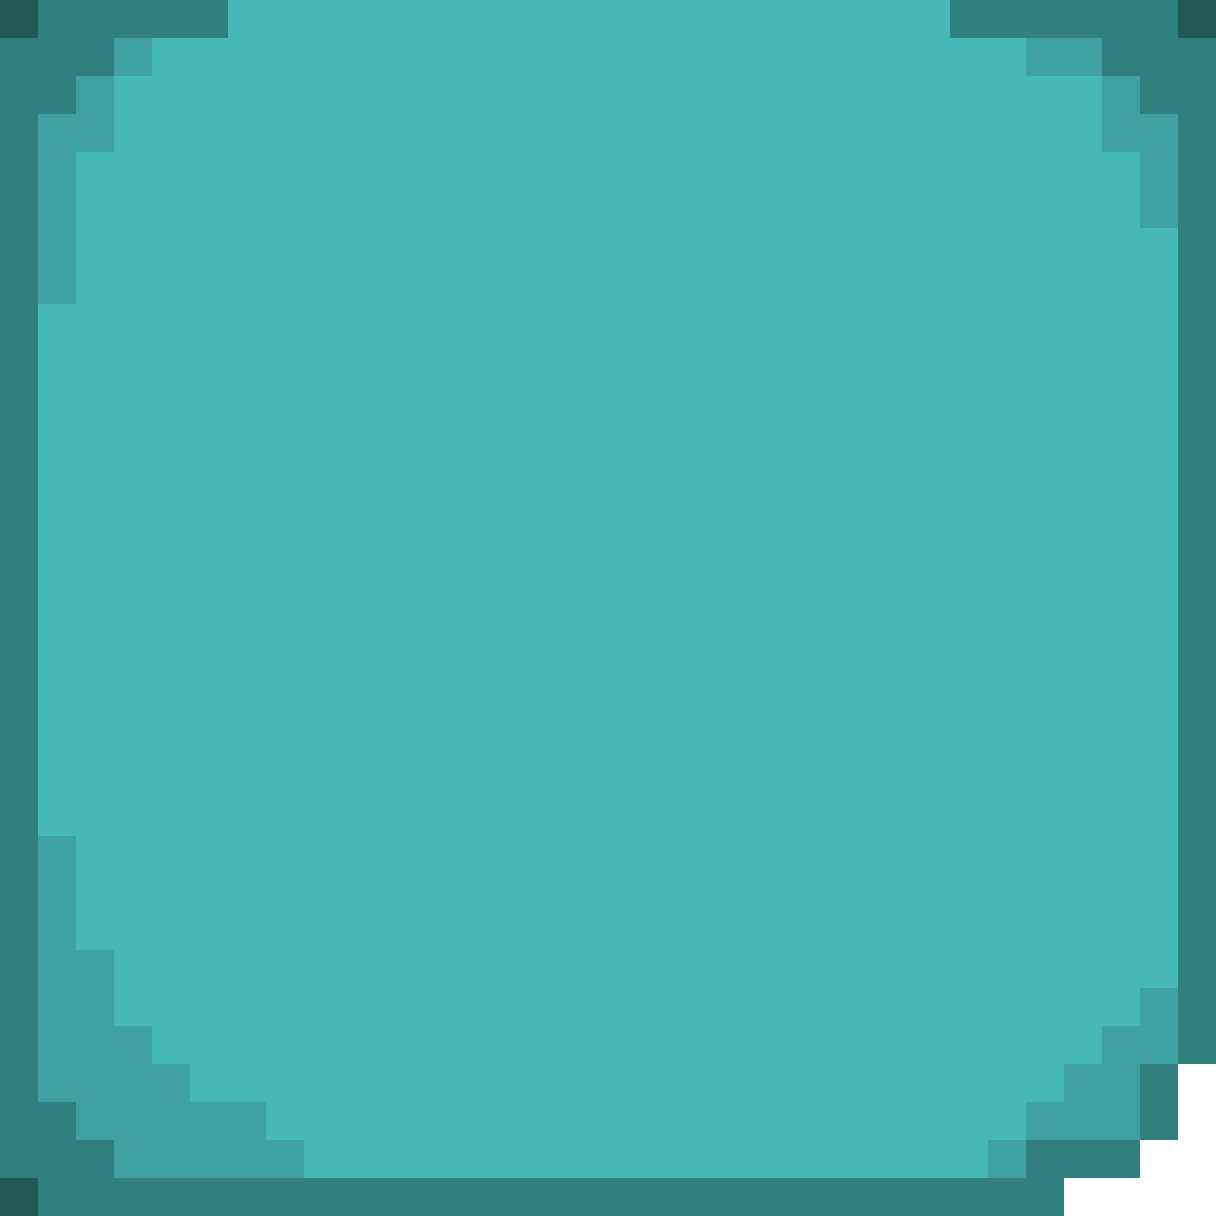
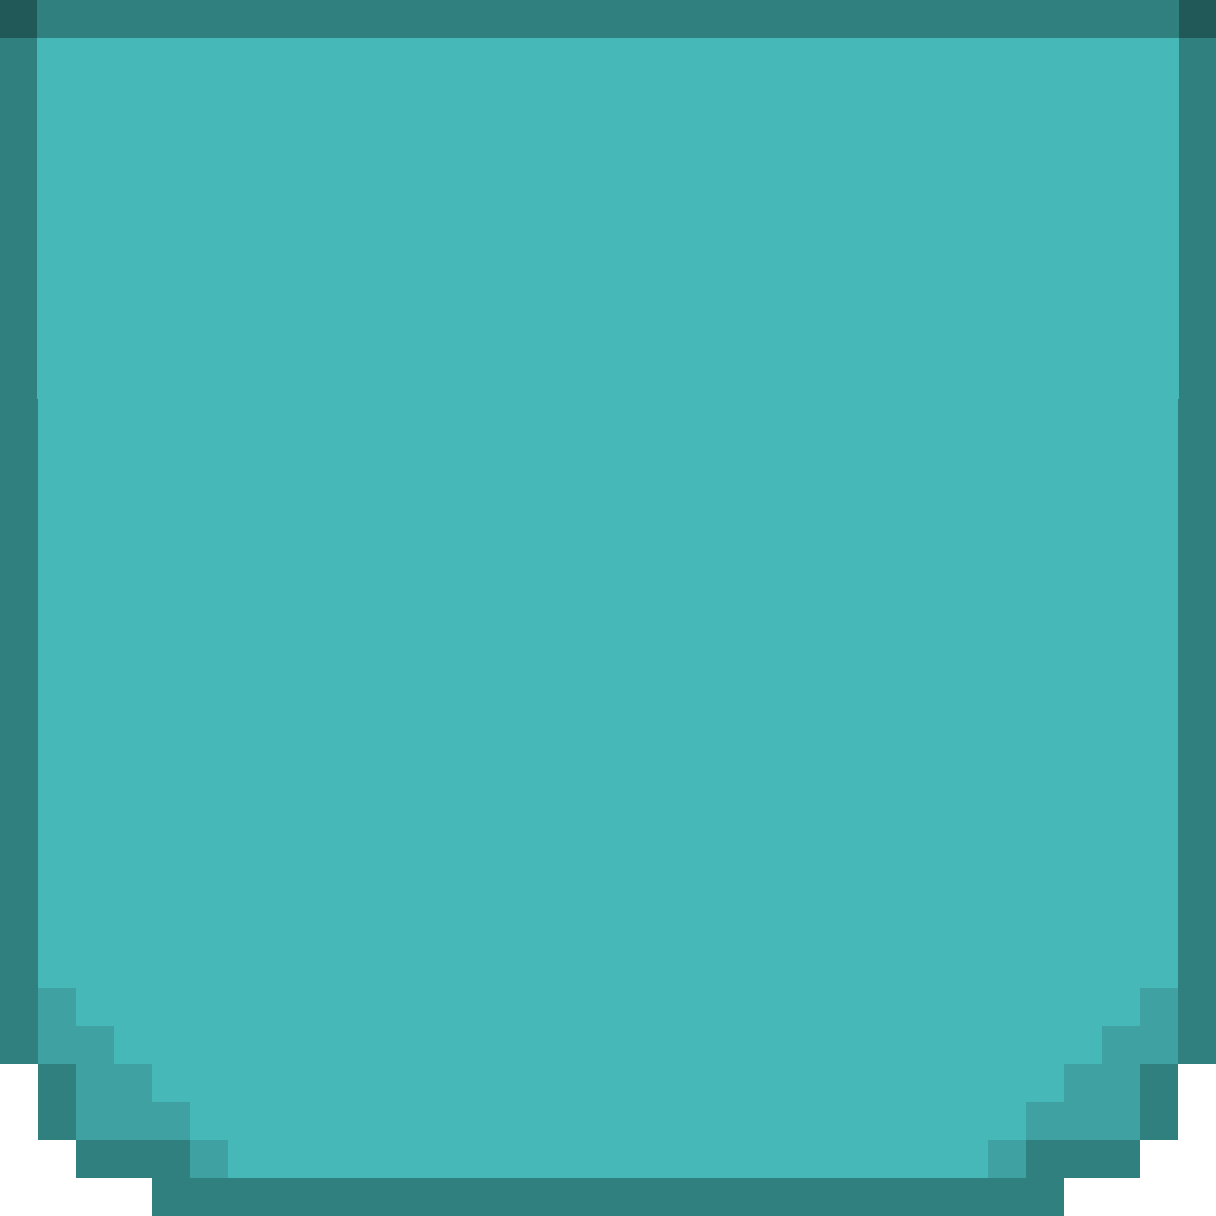
Included textures onto objects, changes some textures to improve tiling

diff --git a/core/src/com/mygdx/game/CreateGameWorld.java b/core/src/com/mygdx/game/CreateGameWorld.java
@@ -28,7 +28,7 @@ public class CreateGameWorld
     GameObject CheeseCrate, LettuceCrate, BunsCrate, OnionCrate, TomatoCrate, MeatCrate;
     GameObject Stove1;
     GameObject Stove2;
-    GameObject CombinationCounter;
+    List<GameObject> CombinationCounters = new LinkedList<>();
     GameObject KitchenSouthWall;
 
     public Vector3 SpawnPointChef1 = new Vector3 (0,0,0);
@@ -51,7 +51,7 @@ public class CreateGameWorld
     public List<Vector3> CustomerWaitingLocations;
 
 
-    Vector3 TableGroupPosition = new Vector3(70,0,100);
+    Vector3 TableGroupPosition = new Vector3(70,0,110);
 
     BTexture FloorTextureD;
     BTexture FloorTextureK;
@@ -64,28 +64,31 @@ public class CreateGameWorld
     BTexture TableTexture;
     BTexture BossTableTexture;
     BTexture CombinationCounterTexture;
+    BTexture CombinationCounterTextureEnd;
+    BTexture CombinationCounterTextureEndDown;
 
-    public float TableRadius = 49;
+    public float TableRadius = 75;
    public List<GameObject> InteractableObjects = new LinkedList<>();
 
 
     public void Instantiate(GridPartition partition){
-        FloorTextureK = new BTexture("wood.png",350,350);
+        FloorTextureK = new BTexture("pictures/KitchenTiles.png",null,null,4);
         FloorTextureK.setWrap(Texture.TextureWrap.Repeat,Texture.TextureWrap.Repeat);
 
-        FloorTextureD = new BTexture("wood.png",330,350);
+        FloorTextureD = new BTexture("pictures/Carpet.png",null,null,4);
         FloorTextureD.setWrap(Texture.TextureWrap.Repeat,Texture.TextureWrap.Repeat);
 
         BlackTexture = new BTexture("black.png",380,350);
         BlackTexture.setWrap(Texture.TextureWrap.Repeat,Texture.TextureWrap.Repeat);
 
-        ServingCounterTexture = new BTexture("black.png",50,100);
+        ServingCounterTexture = new BTexture("pictures/Serving Counter.png",null, null, 1,3);
         ServingCounterTexture.setWrap(Texture.TextureWrap.Repeat,Texture.TextureWrap.Repeat);
 
-        BossTableTexture = new BTexture("black.png",190,40);
-        BossTableTexture.setWrap(Texture.TextureWrap.Repeat,Texture.TextureWrap.Repeat);
 
-        TableTexture = new BTexture("table.png", (int) TableRadius, (int) TableRadius);
+        BossTableTexture = new BTexture("pictures/Boss table.png",null,null);
+        BossTableTexture.setWrap(Texture.TextureWrap.ClampToEdge,Texture.TextureWrap.ClampToEdge);
+
+        TableTexture = new BTexture("pictures/Round Table.png", null , null);
         TableTexture.setWrap(Texture.TextureWrap.ClampToEdge,Texture.TextureWrap.ClampToEdge);
 
         DoorTexture = new BTexture("door.png",49,49);
@@ -94,30 +97,34 @@ public class CreateGameWorld
         LightBeamTexture = new BTexture("lightBeam.png",101,112);
         LightBeamTexture.setWrap(Texture.TextureWrap.ClampToEdge);
 
-        StoveTexture = new BTexture("purple.png",50,50);
-        StoveTexture.setWrap(Texture.TextureWrap.Repeat);
+        StoveTexture = new BTexture("pictures/hob.png",null,null);
+        StoveTexture.setWrap(Texture.TextureWrap.ClampToEdge);
 
-        ChoppingBoardTexture  = new BTexture("cyan.png",50,50);
-        ChoppingBoardTexture.setWrap(Texture.TextureWrap.Repeat);
-
-
-
-        CombinationCounterTexture = new BTexture("black.png",75,150);
-        CombinationCounterTexture.setWrap(Texture.TextureWrap.Repeat,Texture.TextureWrap.Repeat);
+        ChoppingBoardTexture  = new BTexture("pictures/Chopping Board.png",null,null);
+        ChoppingBoardTexture.setWrap(Texture.TextureWrap.ClampToEdge);
 
 
-        KitchenFloor = new GameObject(new Rectangle(400,25,350,300), FloorTextureK);
+
+        CombinationCounterTexture = new BTexture("pictures/Counter.png",null,null);
+        CombinationCounterTexture.setWrap(Texture.TextureWrap.ClampToEdge);
+
+        CombinationCounterTextureEnd = new BTexture("pictures/Counter-end.png",null,null);
+        CombinationCounterTextureEnd.setWrap(Texture.TextureWrap.ClampToEdge);
+        CombinationCounterTextureEndDown = new BTexture("pictures/Counter-endDown.png",null,null);
+        CombinationCounterTextureEndDown.setWrap(Texture.TextureWrap.ClampToEdge);
+
+        KitchenFloor = new GameObject(new Rectangle(400,25,350,300), FloorTextureK,350,350);
         KitchenFloor.transform.position.x = 430;
         KitchenFloor.transform.position.z = 20;
         KitchenFloor.transform.position.y = -1;
 
-        DiningFloor = new GameObject(new Rectangle(50,25,330,300), FloorTextureD);
+        DiningFloor = new GameObject(new Rectangle(50,25,330,300), FloorTextureD,330,350);
         DiningFloor.transform.position.x = 50;
         DiningFloor.transform.position.z = 20;
         DiningFloor.transform.position.y = -1;
 
 
-        ServingCounter = new GameObject(new Rectangle(KitchenFloor.transform.position.x-50+col_redct,KitchenFloor.transform.position.z+100-col_redct,50-col_redct*2,100-col_redct*2), ServingCounterTexture);
+        ServingCounter = new GameObject(new Rectangle(KitchenFloor.transform.position.x-50+col_redct,KitchenFloor.transform.position.z+100-col_redct,50-col_redct*2,100-col_redct*2), ServingCounterTexture,50,100);
         ServingCounter.transform.position.x = KitchenFloor.transform.position.x-50;
         ServingCounter.transform.position.z = KitchenFloor.transform.position.z+100;
         ServingCounter.transform.position.y = 1;
@@ -132,17 +139,8 @@ public class CreateGameWorld
 
 
 
-        CombinationCounter = new GameObject(new Rectangle( 120+ KitchenFloor.transform.position.x ,105+KitchenFloor.transform.position.z, 75,150),CombinationCounterTexture);
-        CombinationCounter.transform.position.x =  120 + KitchenFloor.transform.position.x;
-        CombinationCounter.transform.position.z = 105 + KitchenFloor.transform.position.z;
-        CombinationCounter.transform.position.y = 1;
-        CombinationCounter.addStaticCollider(partition, occupationID.Station);
-        WSCounter CC = new WSCounter();
-        CombinationCounter.AppendScript(CC);
-        InteractableObjects.add(CombinationCounter);
 
-        WorkStations.add(CombinationCounter);
-
+        createCombinationCounters(partition);
 
         createMachines(partition);
 
@@ -166,10 +164,59 @@ public class CreateGameWorld
 
     }
 
+    void createCombinationCounters(GridPartition partition)
+    {
+
+        int middleSections = 3;
+        int segmentHeight =  150/(middleSections+2);
+        int segmentWidth = 50;
+
+        GameObject CombinationCounter;
+        for (int i = 1; i <= middleSections; i++)
+        {
+            CombinationCounter = new GameObject(new Rectangle( 120+ KitchenFloor.transform.position.x ,i*segmentHeight +KitchenFloor.transform.position.z, segmentWidth,segmentHeight),CombinationCounterTexture,segmentWidth,segmentHeight);
+            CombinationCounter.transform.position.x =  120 + KitchenFloor.transform.position.x;
+            CombinationCounter.transform.position.z =  i*segmentHeight + 105 + KitchenFloor.transform.position.z;
+            CombinationCounter.transform.position.y = 1;
+            CombinationCounter.addStaticCollider(partition, occupationID.Station);
+            WSCounter CC = new WSCounter();
+            CombinationCounter.AppendScript(CC);
+            InteractableObjects.add(CombinationCounter);
+            CombinationCounters.add(CombinationCounter);
+            WorkStations.add(CombinationCounter);
+
+        }
+
+
+        CombinationCounter = new GameObject(new Rectangle( 120+ KitchenFloor.transform.position.x ,105+KitchenFloor.transform.position.z, 75,150),CombinationCounterTextureEnd,segmentWidth,segmentHeight);
+        CombinationCounter.transform.position.x =  120 + KitchenFloor.transform.position.x;
+        CombinationCounter.transform.position.z = 105 + KitchenFloor.transform.position.z;
+        CombinationCounter.transform.position.y = 1;
+        CombinationCounter.addStaticCollider(partition, occupationID.Station);
+        WSCounter CC = new WSCounter();
+        CombinationCounter.AppendScript(CC);
+        InteractableObjects.add(CombinationCounter);
+        CombinationCounters.add(CombinationCounter);
+
+        WorkStations.add(CombinationCounter);
+
+
+        CombinationCounter = new GameObject(new Rectangle( 120+ KitchenFloor.transform.position.x ,(middleSections+1)*segmentHeight +KitchenFloor.transform.position.z, segmentWidth,segmentHeight),CombinationCounterTextureEndDown,segmentWidth,segmentHeight);
+        CombinationCounter.transform.position.x =  120 + KitchenFloor.transform.position.x;
+        CombinationCounter.transform.position.z =  (middleSections+1)*segmentHeight + 105 + KitchenFloor.transform.position.z;
+        CombinationCounter.transform.position.y = 1;
+        CombinationCounter.addStaticCollider(partition, occupationID.Station);
+        CC = new WSCounter();
+        CombinationCounter.AppendScript(CC);
+        InteractableObjects.add(CombinationCounter);
+        CombinationCounters.add(CombinationCounter);
+        WorkStations.add(CombinationCounter);
+    }
+
 
     void createMachines(GridPartition partition){
 
-        Stove1 = new GameObject(new Rectangle( 300+ KitchenFloor.transform.position.x ,225+KitchenFloor.transform.position.z, 50,50),StoveTexture);
+        Stove1 = new GameObject(new Rectangle( 300+ KitchenFloor.transform.position.x ,225+KitchenFloor.transform.position.z, 50,50),StoveTexture,50,50);
         Stove1.transform.position.x = 300 + KitchenFloor.transform.position.x;
         Stove1.transform.position.z = 225 + KitchenFloor.transform.position.z;
         Stove1.transform.position.y = 2;
@@ -179,7 +226,7 @@ public class CreateGameWorld
         Stove1.AppendScript(hob);
 
 
-        ChoppingBoard = new GameObject(new Rectangle( 300+ KitchenFloor.transform.position.x ,150+KitchenFloor.transform.position.z, 50,50),ChoppingBoardTexture);
+        ChoppingBoard = new GameObject(new Rectangle( 300+ KitchenFloor.transform.position.x ,150+KitchenFloor.transform.position.z, 50,50),ChoppingBoardTexture,50,50);
         ChoppingBoard.transform.position.x = 300 + KitchenFloor.transform.position.x;
         ChoppingBoard.transform.position.z = 150 + KitchenFloor.transform.position.z;
         ChoppingBoard.transform.position.y = 2;
@@ -188,7 +235,7 @@ public class CreateGameWorld
         WSChopBoard chb = new WSChopBoard();
         ChoppingBoard.AppendScript(chb);
 
-        Stove2 = new GameObject(new Rectangle( 300+ KitchenFloor.transform.position.x ,75+KitchenFloor.transform.position.z, 50,50),StoveTexture);
+        Stove2 = new GameObject(new Rectangle( 300+ KitchenFloor.transform.position.x ,75+KitchenFloor.transform.position.z, 50,50),StoveTexture,50,50);
         Stove2.transform.position.x = 300 + KitchenFloor.transform.position.x;
         Stove2.transform.position.z = 75 + KitchenFloor.transform.position.z;
         Stove2.transform.position.y = 2;
@@ -253,15 +300,15 @@ public class CreateGameWorld
 
     }
     void createTables(GridPartition  partition){
-        float width = 1.5f;
-        float offsetX = 70;
-        float offsetY = 70;
+        float width = 1f;
+        float offsetX = 105;
+        float offsetY = 105;
 
         TableRadius = TableRadius * width;
 
         Tables = new LinkedList<>();
 
-        Table1 = new GameObject(new Rectangle( TableGroupPosition.x + DiningFloor.transform.position.x ,TableGroupPosition.z+DiningFloor.transform.position.z, TableRadius,TableRadius),TableTexture);
+        Table1 = new GameObject(new Rectangle( TableGroupPosition.x + DiningFloor.transform.position.x ,TableGroupPosition.z+DiningFloor.transform.position.z, TableRadius,TableRadius),TableTexture, (int)TableRadius,(int)TableRadius);
         Table1.transform.position.x =  floorToMultipleOfCellWidth(TableGroupPosition.x + DiningFloor.transform.position.x, partition.sizeOfGridSpaces);
         Table1.transform.position.z =  floorToMultipleOfCellWidth(TableGroupPosition.z + DiningFloor.transform.position.z, partition.sizeOfGridSpaces);
         Table1.transform.position.y = 2;
@@ -269,7 +316,7 @@ public class CreateGameWorld
         Table1.addStaticCollider(partition, occupationID.Blocked);
         Tables.add(Table1);
 
-        Table2 = new GameObject(new Rectangle( width*offsetX+TableGroupPosition.x +  DiningFloor.transform.position.x ,width * offsetY+TableGroupPosition.z+ DiningFloor.transform.position.z, TableRadius,TableRadius),TableTexture);
+        Table2 = new GameObject(new Rectangle( width*offsetX+TableGroupPosition.x +  DiningFloor.transform.position.x ,width * offsetY+TableGroupPosition.z+ DiningFloor.transform.position.z, TableRadius,TableRadius),TableTexture, (int)TableRadius,(int)TableRadius);
         Table2.transform.position.x =  floorToMultipleOfCellWidth(width * offsetX+TableGroupPosition.x + DiningFloor.transform.position.x, partition.sizeOfGridSpaces);
         Table2.transform.position.z = floorToMultipleOfCellWidth(width * offsetY+TableGroupPosition.z + DiningFloor.transform.position.z, partition.sizeOfGridSpaces);
         Table2.transform.position.y = 2;
@@ -278,7 +325,7 @@ public class CreateGameWorld
 
         Tables.add(Table2);
 
-        Table3 = new GameObject(new Rectangle( TableGroupPosition.x + DiningFloor.transform.position.x ,width*offsetY+TableGroupPosition.z+DiningFloor.transform.position.z, TableRadius,TableRadius),TableTexture);
+        Table3 = new GameObject(new Rectangle( TableGroupPosition.x + DiningFloor.transform.position.x ,width*offsetY+TableGroupPosition.z+DiningFloor.transform.position.z, TableRadius,TableRadius),TableTexture, (int)TableRadius,(int)TableRadius);
         Table3.transform.position.x =  floorToMultipleOfCellWidth(TableGroupPosition.x + DiningFloor.transform.position.x, partition.sizeOfGridSpaces);
         Table3.transform.position.z = floorToMultipleOfCellWidth(width*offsetY+TableGroupPosition.z + DiningFloor.transform.position.z, partition.sizeOfGridSpaces);
         Table3.transform.position.y = 2;
@@ -286,7 +333,7 @@ public class CreateGameWorld
         Table3.addStaticCollider(partition, occupationID.Blocked);
         Tables.add(Table3);
 
-        Table4 = new GameObject(new Rectangle( width*offsetX+TableGroupPosition.x+ DiningFloor.transform.position.x ,TableGroupPosition.z+DiningFloor.transform.position.z, TableRadius,TableRadius),TableTexture);
+        Table4 = new GameObject(new Rectangle( width*offsetX+TableGroupPosition.x+ DiningFloor.transform.position.x ,TableGroupPosition.z+DiningFloor.transform.position.z, TableRadius,TableRadius),TableTexture, (int)TableRadius,(int)TableRadius);
         Table4.transform.position.x = floorToMultipleOfCellWidth( width*offsetX+TableGroupPosition.x + DiningFloor.transform.position.x, partition.sizeOfGridSpaces);
         Table4.transform.position.z = floorToMultipleOfCellWidth(TableGroupPosition.z + DiningFloor.transform.position.z, partition.sizeOfGridSpaces);
         Table4.transform.position.y = 2;
@@ -298,7 +345,7 @@ public class CreateGameWorld
 
 
 
-        BossTable = new GameObject(new Rectangle(TableGroupPosition.x+ DiningFloor.transform.position.x ,width * offsetY+TableGroupPosition.z+ DiningFloor.transform.position.z, TableRadius,TableRadius),BossTableTexture);
+        BossTable = new GameObject(new Rectangle(TableGroupPosition.x+ DiningFloor.transform.position.x ,width * offsetY+TableGroupPosition.z+ DiningFloor.transform.position.z, TableRadius,TableRadius),BossTableTexture,190,60);
         BossTable.transform.position.x = floorToMultipleOfCellWidth( 70 + DiningFloor.transform.position.x, partition.sizeOfGridSpaces);
         BossTable.transform.position.z = floorToMultipleOfCellWidth( 30 +DiningFloor.transform.position.z, partition.sizeOfGridSpaces);
         BossTable.transform.position.y = 2;
@@ -311,7 +358,8 @@ public class CreateGameWorld
         BossSeats = new LinkedList<Vector3>();
         for (int y = 0; y < 2; y++) {
             for (int x = 0; x < seat_per_side; x++) {
-                BossSeats.add(new Vector3(x * seatOffset,0,y * (25+BossTableTexture.height)-25).add(BossTable.transform.position));
+                BossSeats.add(new Vector3(x * seatOffset,0,y * (25+
+                        BossTable.getTextureHeight())-25).add(BossTable.transform.position));
             }
         }
 

diff --git a/core/src/com/mygdx/game/BlackCore/BTexture.java b/core/src/com/mygdx/game/BlackCore/BTexture.java
@@ -15,15 +15,26 @@ public class BTexture {
 
    public int width,height;
 
+   private Texture.TextureWrap _U,_V;
+
    public Vector3 textureOrigin = Vector3.Zero.setZero();
 
 //Setting width or height to -1 will result in capturing the width or height exactly
     public BTexture(String path, Integer width, Integer height){
 
-        loadTexture(path,width,height);
+        loadTexture(path,width,height,1,1);
     }
 
-   public void loadTexture(String path,Integer width, Integer height){
+    public BTexture(String path, Integer width, Integer height, int Repeats){
+
+        loadTexture(path,width,height, Repeats,Repeats);
+    }
+
+    public BTexture(String path, Integer width, Integer height, int RepeatsU,int RepeatsV){
+
+        loadTexture(path,width,height, RepeatsU,RepeatsV);
+    }
+   public void loadTexture(String path,Integer width, Integer height, int RepeatsU, int RepeatsV){
         if(image != null){
             image.dispose();
 
@@ -31,13 +42,23 @@ public class BTexture {
 
        image = new Texture(path);
 
-       this.width = (width == null) ? image.getWidth() : width;
-       this.height = (height == null) ? image.getHeight() : height;
+        int RV = 1, RU = 1;
+
+        if(_V != Texture.TextureWrap.ClampToEdge)
+            RV = RepeatsV;
+        if(_U != Texture.TextureWrap.ClampToEdge)
+            RU = RepeatsU;
+
+       this.width = (width == null) ? image.getWidth() * RU: width* RU;
+       this.height = (height == null) ? image.getHeight() * RV: height* RV;
 
        texture = new TextureRegion(image, this.width,this.height);
    }
 
    public void setWrap(Texture.TextureWrap U, Texture.TextureWrap V){
+
+       _U = U;
+       _V = V;
         image.setWrap(U,V);
    }
 

diff --git a/core/src/com/mygdx/game/BlackCore/GameObject.java b/core/src/com/mygdx/game/BlackCore/GameObject.java
@@ -40,6 +40,19 @@ public class GameObject implements Comparator<GameObject> {
         GameObjectHandler.instantiator.Instantiate(this);
     }
 
+    public GameObject(Shape2D shape, BTexture texture, int width, int height){
+
+        this.shape = shape;
+        this.texture = texture;
+        transform = new Transform();
+        blackScripts = new LinkedList<>();
+        // set to true by default so that objects are correctly displayed
+        IsActiveAndVisible = true;
+        textureWidth = width;
+        textureHeight = height;
+        GameObjectHandler.instantiator.Instantiate(this);
+    }
+
     public Integer getUID() {
         return _UID;
 
@@ -52,7 +65,7 @@ public class GameObject implements Comparator<GameObject> {
 
     public void addStaticCollider(GridPartition gridPartition, occupationID id){
         this.transform.gridPartition = gridPartition;
-        gridPartition.place_static_object_on_grid_from_world(transform.position.x,transform.position.z,texture.width*transform.scale.x, texture.height*transform.scale.z, occupationID.Blocked);
+        gridPartition.place_static_object_on_grid_from_world(transform.position.x,transform.position.z,getTextureWidth()*transform.scale.x, getTextureHeight()*transform.scale.z, occupationID.Blocked);
       //  setColliderState(true);
       //  CollisionDetection.collisionMaster.addToStaticQueue(this);
 

diff --git a/core/src/com/mygdx/game/BlackCore/BatchDrawer.java b/core/src/com/mygdx/game/BlackCore/BatchDrawer.java
@@ -56,7 +56,7 @@ public class BatchDrawer {
             batch.draw(object.texture.texture,
                     object.transform.position.x, object.transform.position.z + object.transform.position.y * yAxisToZConversionRation,
                      object.texture.textureOrigin.x,  object.texture.textureOrigin.z,
-                    object.texture.width, object.texture.height,
+                    object.textureWidth, object.textureHeight,
                     object.transform.scale.x, object.transform.scale.z+ object.transform.scale.y * yAxisToZConversionRation,
                     object.transform.rotation.getYaw());
 

diff --git a/core/src/com/mygdx/game/BlackCore/Table.java b/core/src/com/mygdx/game/BlackCore/Table.java
@@ -42,7 +42,7 @@ public class Table
             GameObject obj = new GameObject(new Rectangle(), tex);
 
             pos = new Vector3(p);
-            pos.y = 5;
+            pos.y = 7;
             obj.transform.position =  pos;
         }
 
